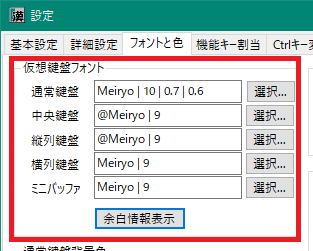
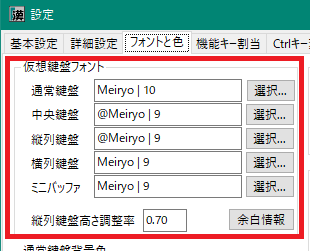
縦列鍵盤の高さを調整する調整率を設定できるようにした(「フォントと色」タブ)

diff --git a/DlgSettings.Designer.cs b/DlgSettings.Designer.cs
@@ -436,6 +436,8 @@ namespace KanchokuWS
             this.textBox_alphaModeForeColor = new KanchokuWS.ColorTextBox();
             this.textBox_2ndStrokeForeColor = new KanchokuWS.ColorTextBox();
             this.textBox_modeForeColor = new KanchokuWS.ColorTextBox();
+            this.textBox_verticalFontHeightFactor = new System.Windows.Forms.TextBox();
+            this.label109 = new System.Windows.Forms.Label();
             this.tabControl1.SuspendLayout();
             this.tabPage_basic.SuspendLayout();
             this.groupBox2.SuspendLayout();
@@ -1978,6 +1980,8 @@ namespace KanchokuWS
             // 
             // groupBox21
             // 
+            this.groupBox21.Controls.Add(this.textBox_verticalFontHeightFactor);
+            this.groupBox21.Controls.Add(this.label109);
             this.groupBox21.Controls.Add(this.button_showPaddingsDesc);
             this.groupBox21.Controls.Add(this.button_normalDlg);
             this.groupBox21.Controls.Add(this.button_minibufDlg);
@@ -2003,11 +2007,11 @@ namespace KanchokuWS
             // 
             // button_showPaddingsDesc
             // 
-            this.button_showPaddingsDesc.Location = new System.Drawing.Point(80, 147);
+            this.button_showPaddingsDesc.Location = new System.Drawing.Point(214, 149);
             this.button_showPaddingsDesc.Name = "button_showPaddingsDesc";
-            this.button_showPaddingsDesc.Size = new System.Drawing.Size(92, 23);
-            this.button_showPaddingsDesc.TabIndex = 10;
-            this.button_showPaddingsDesc.Text = "余白情報表示";
+            this.button_showPaddingsDesc.Size = new System.Drawing.Size(67, 23);
+            this.button_showPaddingsDesc.TabIndex = 11;
+            this.button_showPaddingsDesc.Text = "余白情報";
             this.toolTip1.SetToolTip(this.button_showPaddingsDesc, "通常鍵盤、中央鍵盤、縦列鍵盤の現在の余白値を表示します。");
             this.button_showPaddingsDesc.UseVisualStyleBackColor = true;
             this.button_showPaddingsDesc.Click += new System.EventHandler(this.button_showPaddingsDesc_Click);
@@ -5281,6 +5285,24 @@ namespace KanchokuWS
             this.toolTip1.SetToolTip(this.textBox_modeForeColor, "第1打鍵待ち時のモード標識文字の色\r\n\r\n仮想鍵盤ではなくモード標識を表示している場合に、\r\n第1打鍵を待っている時の文字色を設定します。\r\n（ここをクリックする" +
         "と設定ダイアログが開きます。）");
             // 
+            // textBox_verticalFontHeightFactor
+            // 
+            this.textBox_verticalFontHeightFactor.Location = new System.Drawing.Point(129, 150);
+            this.textBox_verticalFontHeightFactor.Name = "textBox_verticalFontHeightFactor";
+            this.textBox_verticalFontHeightFactor.Size = new System.Drawing.Size(44, 23);
+            this.textBox_verticalFontHeightFactor.TabIndex = 10;
+            this.toolTip1.SetToolTip(this.textBox_verticalFontHeightFactor, "縦列鍵盤の高さの計算の調整率を設定します。\r\n\r\n縦列鍵盤の高さは、使用するフォントの幅から自動で計算しますが、\r\nMS  Gothic, 9pt 以外のフォント" +
+        "の場合は、計算がずれる場合があります。\r\nそのような場合には、ここの値を調整してください。");
+            // 
+            // label109
+            // 
+            this.label109.AutoSize = true;
+            this.label109.Location = new System.Drawing.Point(14, 154);
+            this.label109.Name = "label109";
+            this.label109.Size = new System.Drawing.Size(111, 15);
+            this.label109.TabIndex = 20;
+            this.label109.Text = "縦列鍵盤高さ調整率";
+            // 
             // DlgSettings
             // 
             this.AutoScaleDimensions = new System.Drawing.SizeF(6F, 12F);
@@ -5813,5 +5835,7 @@ namespace KanchokuWS
         private System.Windows.Forms.TextBox textBox_bushuAssocSelectCount;
         private System.Windows.Forms.Label label_keyAssignReload;
         private System.Windows.Forms.Button button_keyAssignReload;
+        private System.Windows.Forms.TextBox textBox_verticalFontHeightFactor;
+        private System.Windows.Forms.Label label109;
     }
 }

diff --git a/DlgSettings.cs b/DlgSettings.cs
@@ -536,6 +536,7 @@ namespace KanchokuWS
             textBox_verticalFont.Text = Settings.VerticalVkbFontSpec;
             textBox_horizontalFont.Text = Settings.HorizontalVkbFontSpec;
             textBox_minibufFont.Text = Settings.MiniBufVkbFontSpec;
+            textBox_verticalFontHeightFactor.Text = $"{Settings.VerticalFontHeightFactor:f2}";
 
             // 通常鍵盤背景色
             textBox_topLevelBackColor.Text = Settings.BgColorTopLevelCells;
@@ -574,6 +575,7 @@ namespace KanchokuWS
             checkerFontColor.Add(textBox_verticalFont);
             checkerFontColor.Add(textBox_horizontalFont);
             checkerFontColor.Add(textBox_minibufFont);
+            checkerFontColor.Add(textBox_verticalFontHeightFactor);
 
             // 通常鍵盤背景色
             checkerFontColor.Add(textBox_topLevelBackColor);
@@ -611,6 +613,7 @@ namespace KanchokuWS
             Settings.SetUserIni("verticalFont", textBox_verticalFont.Text.Trim());
             Settings.SetUserIni("horizontalFont", textBox_horizontalFont.Text.Trim());
             Settings.SetUserIni("minibufFont", textBox_minibufFont.Text.Trim());
+            Settings.SetUserIni("verticalFontHeightFactor", textBox_verticalFontHeightFactor.Text.Trim());
 
             // 通常鍵盤背景色
             Settings.SetUserIni("bgColorTopLevelCells", textBox_topLevelBackColor.Text.Trim());

diff --git a/FrmVirtualKeyboard.cs b/FrmVirtualKeyboard.cs
@@ -941,8 +941,9 @@ namespace KanchokuWS
                 renewCandidateVerticalFont();
                 renewCenterVerticalFont();
                 var candArray = getCandidateStrings(decoderOutput.faceStrings);
-                float height = (int)(candArray.Select(s => calcCharsAsFullwide(s)).Max()._lowLimit(MinVerticalChars) * verticalFontInfo.CharHeight) + 5;
-                float centerHeight = height._max(CommonState.CenterString._safeLength()._lowLimit(MinCenterChars) * centerFontInfo.CharHeight + 5);
+                //float height = (int)(candArray.Select(s => calcCharsAsFullwide(s)).Max()._lowLimit(MinVerticalChars) * verticalFontInfo.CharHeight * 0.9) + 5;
+                float height = (float)(candArray.Select(s => calcCharsAsFullwide(s)).Max()._lowLimit(MinVerticalChars) * verticalFontInfo.CharHeight * Settings.VerticalFontHeightFactor) + 5;
+                float centerHeight = height._max(CommonState.CenterString._safeLength()._lowLimit(MinCenterChars) * centerFontInfo.CharHeight * Settings.VerticalFontHeightFactor + 5);
                 resetVkbControls(topText, VkbNormalWidth, height, centerHeight);
                 using (PictureBoxDrawer drawer = new PictureBoxDrawer(pictureBox_Main)) {
                     drawVerticalVkbFrame(drawer.Gfx);

diff --git a/Settings.cs b/Settings.cs
@@ -80,6 +80,7 @@ namespace KanchokuWS
         public static string VerticalVkbFontSpec { get; private set; } = "@MS Gothic|9|0|0";
         public static string HorizontalVkbFontSpec { get; private set; } = "MS Gothic|9";
         public static string MiniBufVkbFontSpec { get; private set; } = "MS Gothic|9";
+        public static float VerticalFontHeightFactor { get; private set; } = 1.0f;
 
         //-------------------------------------------------------------------------------------
         /// <summary>キーボードファイル</summary>
@@ -698,6 +699,10 @@ namespace KanchokuWS
             VerticalVkbFontSpec = GetString("verticalFont", "@MS Gothic | 9");
             HorizontalVkbFontSpec = GetString("horizontalFont", "MS Gothic | 9");
             MiniBufVkbFontSpec = GetString("minibufFont", "MS Gothic | 9");
+            {
+                var factor = GetString("verticalFontHeightFactor", "1.00")._parseDouble();
+                VerticalFontHeightFactor = factor._isNaN() ? 1.0f : (float)factor;
+            }
 
             //-------------------------------------------------------------------------------------
             VirtualKeyboardShowStrokeCount = GetString("vkbShowStrokeCount")._parseInt(1);

diff --git a/README.md b/README.md
@@ -1511,6 +1511,9 @@ Windows のディスプレイ設定の「拡大縮小とレイアウト」のと
 
 ![Font Margin](image/font-margin.png)
 
+また、フォントを変更すると縦列鍵盤表示の際の高さが文字数に比べてずれることがあります。
+そのような場合は、「縦列鍵盤表高さ調整率」を変更してみてください。
+
 ### 打鍵ヘルプ
 仮想鍵盤に表示される打鍵ヘルプには以下のものがあります。
 - 第1打鍵時のヘルプ
